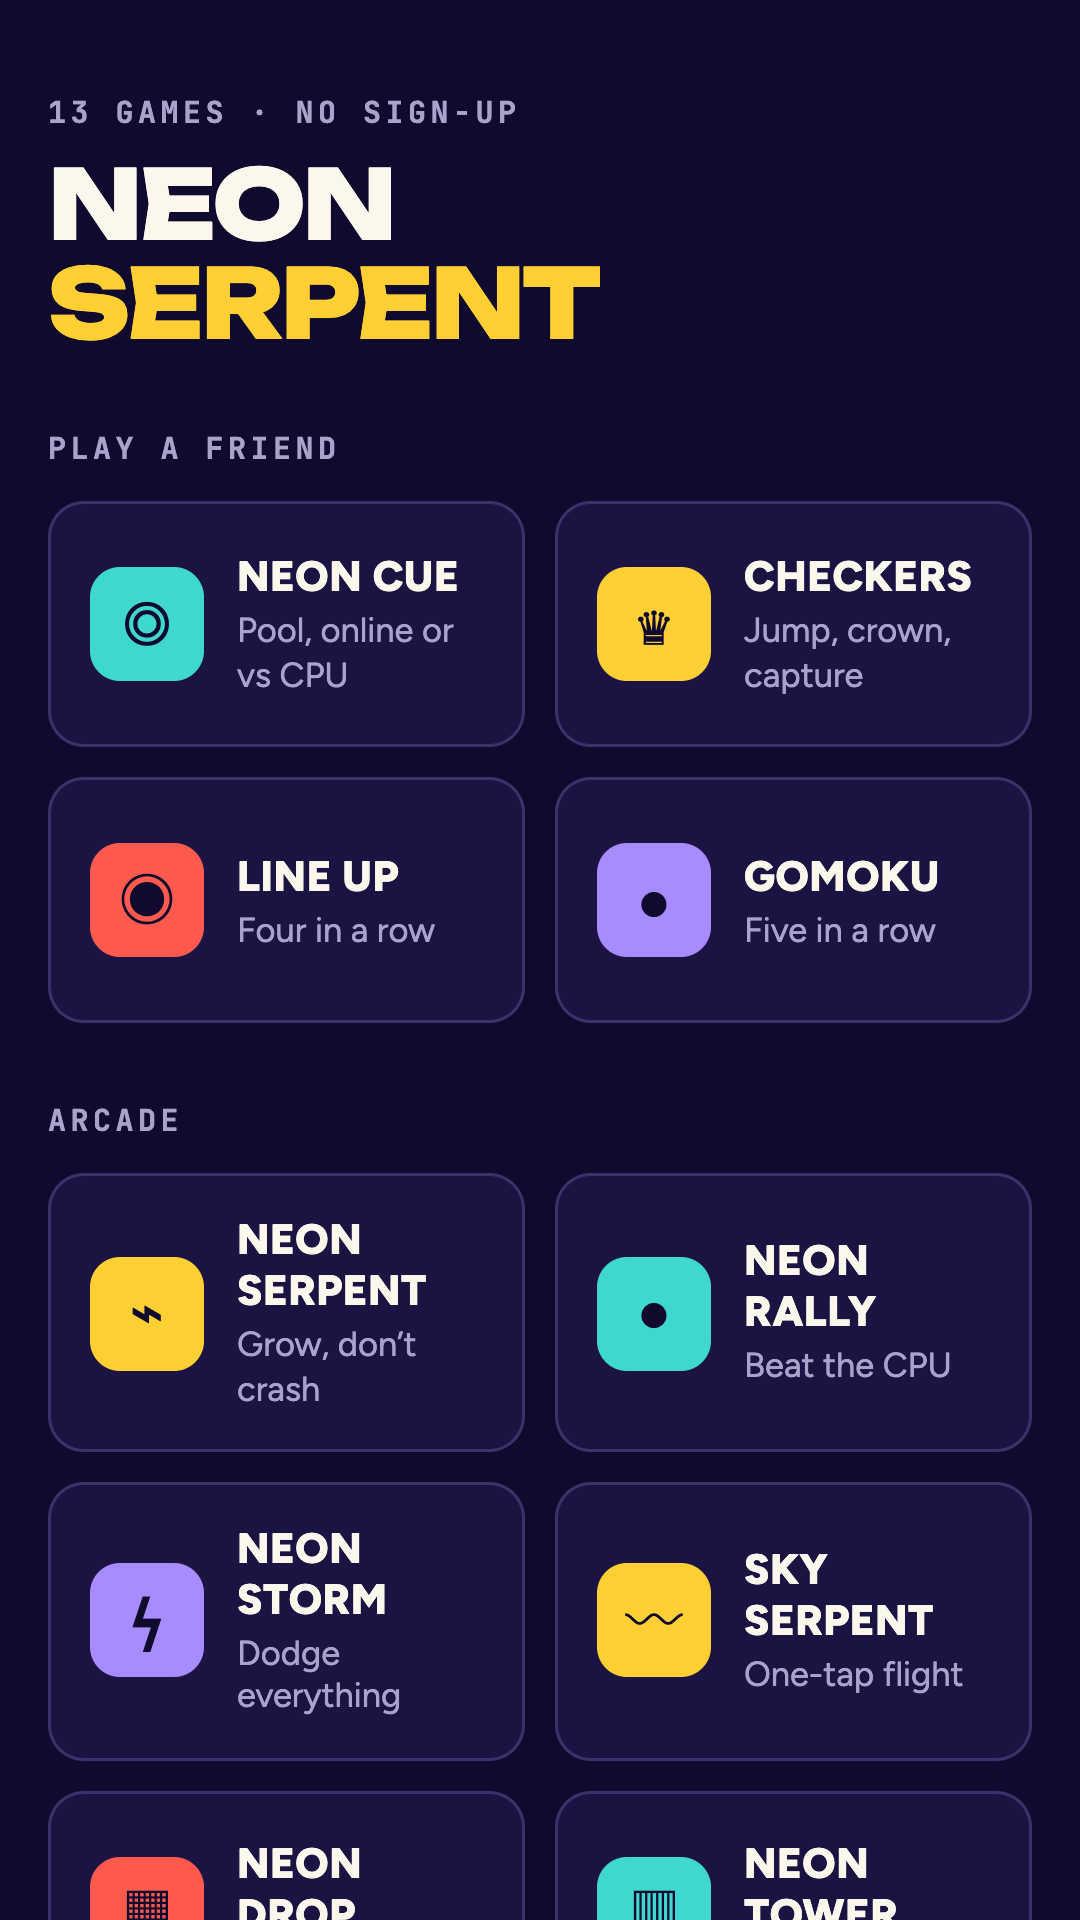
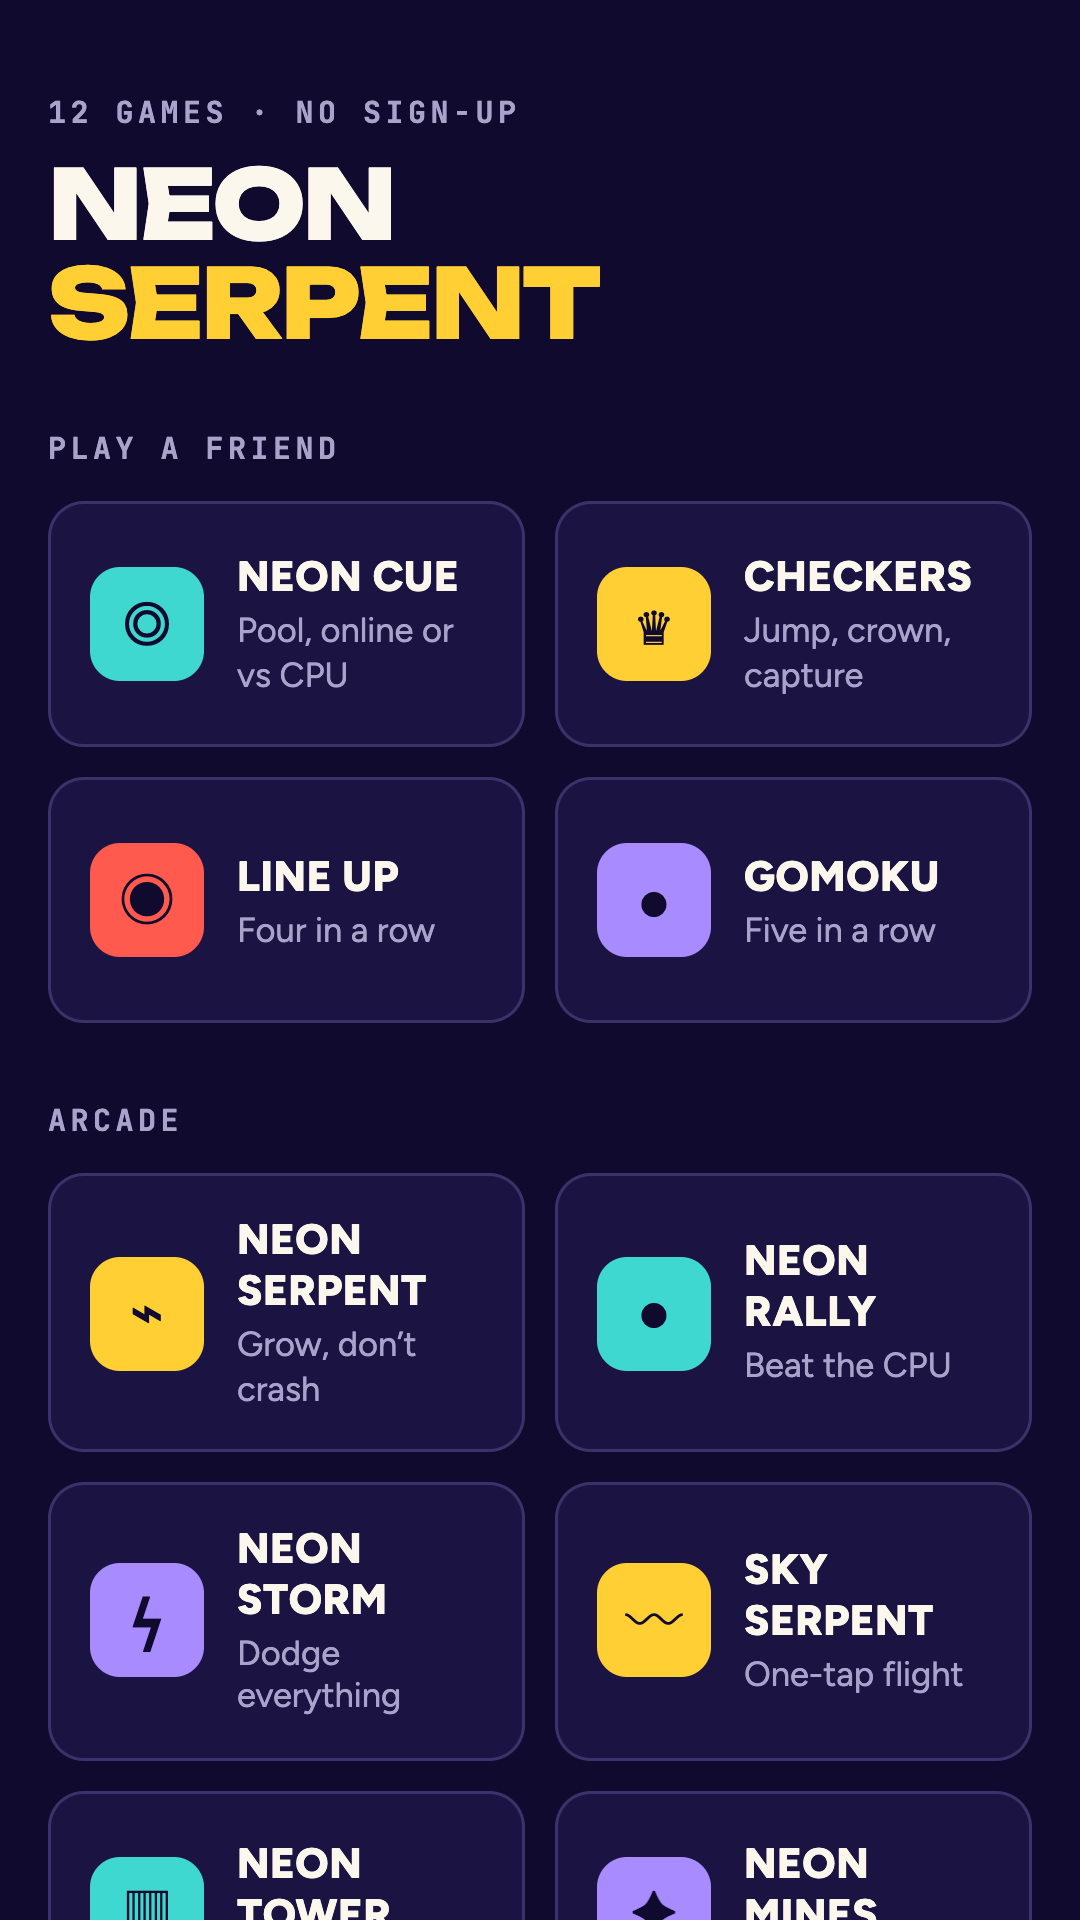
Leave Neon Drop out of the Android app
The app build drops a game's tab and home tile for anything listed in
app.config.json's leaveOut; the website keeps it. The home screen counts
the games it shows. Listing, feature graphic and screenshots now say 12
games, with Neon Rally in place of the Neon Drop screenshot.

Claude-Session: https://claude.ai/code/session_01NdBxexPJFAn7gXDtrnYUK1

Changed region(s): [[0.0611, 0.9688, 0.3667, 1.0], [0.7028, 0.9688, 0.825, 1.0], [0.55, 0.9688, 0.6722, 1.0]]

diff --git a/mobile.js b/mobile.js
@@ -29,11 +29,13 @@
 
   let current = null, pushed = false; // pushed: the open game has a browser history entry that Back can undo
 
-  const home = $('#home-tiles');
+  const home = $('#home-tiles'), leaveOut = window.neonLeaveOut || [];
+  $('.home-brand small').textContent = `${TILES.flatMap(([, tiles]) => tiles).filter(([game]) => !leaveOut.includes(game)).length} GAMES · NO SIGN-UP`;
   TILES.forEach(([group, tiles]) => {
     const heading = document.createElement('h2'), grid = document.createElement('div');
     heading.className = 'home-group'; heading.textContent = group; grid.className = 'home-grid';
     tiles.forEach(([game, name, icon, tag, color]) => {
+      if (leaveOut.includes(game)) return;
       const tile = document.createElement('button'), mark = document.createElement('b'), title = document.createElement('strong'), line = document.createElement('span');
       tile.className = 'home-tile'; tile.style.setProperty('--tile', color); mark.textContent = icon; mark.setAttribute('aria-hidden', 'true'); title.textContent = name; line.textContent = tag;
       tile.append(mark, title, line);

diff --git a/store/PLAY-CONSOLE.md b/store/PLAY-CONSOLE.md
@@ -8,10 +8,10 @@ for what's declared. These answers assume online play is ON. If the build ships 
 **App name (30 max):** Neon Serpent: Arcade Games
 
 **Short description (80 max):**
-13 arcade and board games. Play the computer, a friend, or chase your high score.
+12 arcade and board games. Play the computer, a friend, or chase your high score.
 
 **Full description:**
-Neon Serpent is 13 fast, colorful games in one app, with no sign-up.
+Neon Serpent is 12 fast, colorful games in one app, with no sign-up.
 
 PLAY A FRIEND
 • Neon Cue: pool with a real pull-back shot
@@ -25,7 +25,6 @@ ARCADE
 • Neon Rally: first to seven against the computer
 • Neon Storm: dodge everything falling from the sky
 • Sky Serpent: one-tap flight through neon gates
-• Neon Drop: drop and clear rows of blocks
 • Neon Tower: stop each row dead on top of the last
 • Neon Mines: three sizes of minefield
 • Neon Smash: smash every brick
